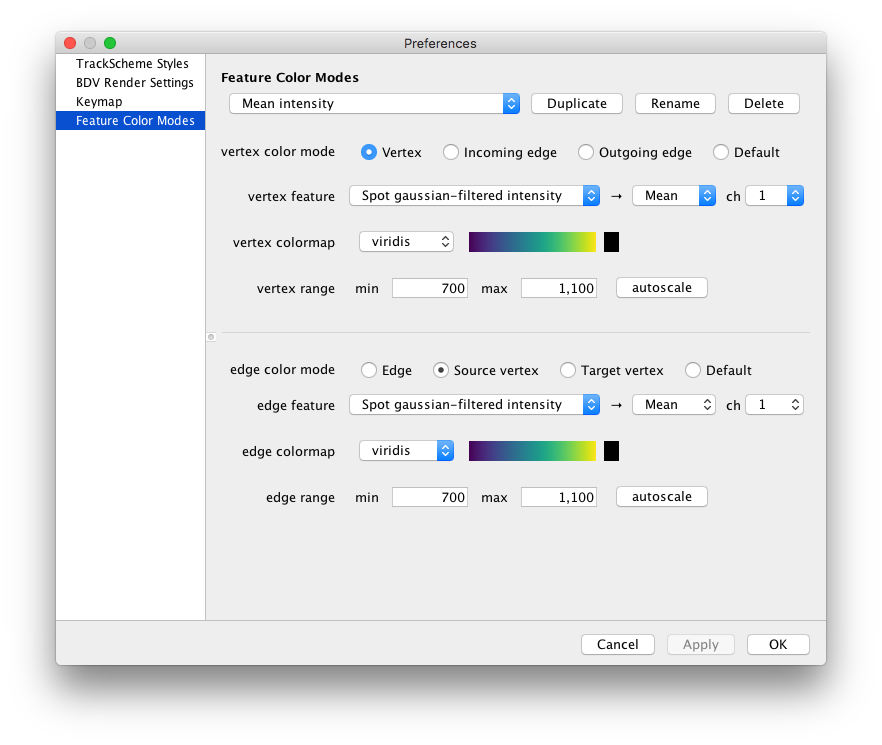
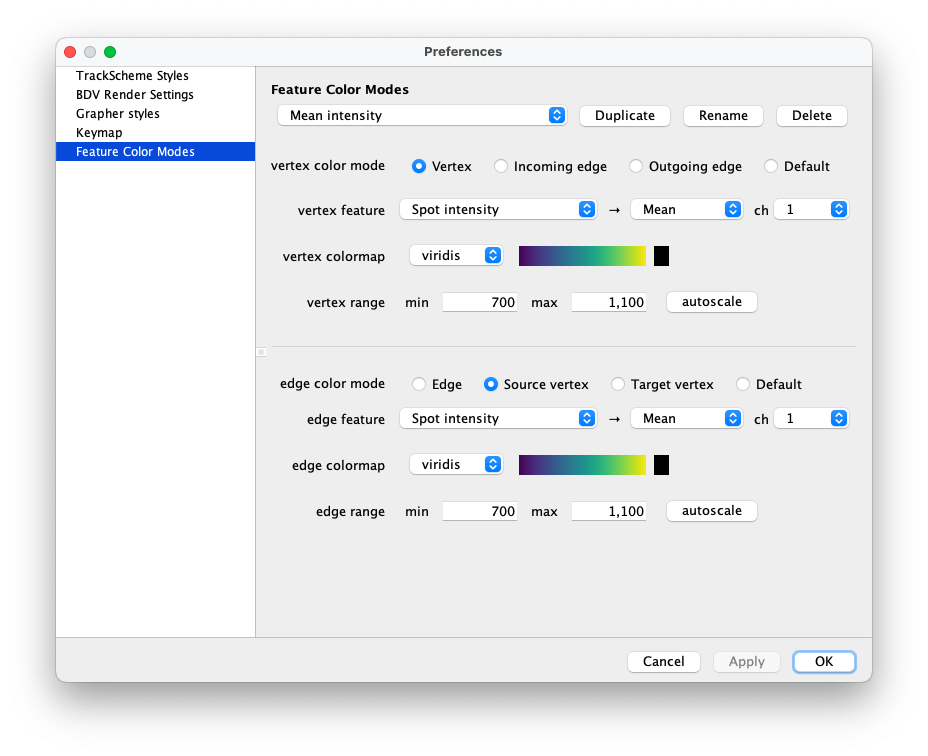
Tutorial on tags, features and the table views.
And the table shortcuts.

Changed region(s): [[0.0612, 0.0309, 0.949, 0.9262], [0.2143, 0.4322, 0.2449, 0.4631]]

diff --git a/docs/partA/numerical_features_tags_the_table_view.md b/docs/partA/numerical_features_tags_the_table_view.md
@@ -1,0 +1,355 @@
+# Numerical features and tags. The table view.
+
+Mastodon is a tracking and lineaging tool. 
+Its output is a collection of tracks, and the analysis of these tracks to yield statistics on velocity, displacement is carried out in another software package such as MATLAB or Python. 
+Nonetheless you will find in Mastodon tools to compute *numerical features* on data item. 
+Numerical features are numbers that can be calculated on spots, links and tracks of the data.
+For instance there are feature for the number of links that touch a spot, or the displacement of a link or the number of spots in a track.
+You can find them within Mastodon because it is convenient, but also because they are very useful for the interactive exploration of your data.
+Coupled with feature-based coloring, the display and sorting of values in the table view and the selection creator tool, they can considerably accelerate and facilitate making sense of the data.
+
+Numerical features are numbers that classically relate to a physical quantity.
+When we need to *categorize* items, we rely on *tags*. 
+We describe them just below.
+This chapter will also show you how to compute numerical features and create a coloring view from the feature values and tags.
+Doing so, we will introduce the third kind of data view in Mastodon: the data tables.
+
+## Tags and tag-sets.
+
+As we said above, every-time you need to categorize certain data items, or need to visualize categories, you should rely on tags. 
+Let's suppose that you are investigating the trajectories of cells in a developing embryo from an early stage to a stage where the embryo is polarized.
+Some cells will migrate to the anterior part, some others to the posterior part, _etc_. 
+You might want to tag cell tracks with the `Anterior` or `Posterior` tag, to investigate where do these cell come from in the early embryo. 
+Or let's say that you are curating the results of the automated tracking on a large images. 
+The tracking results might have some inaccuracies, and you want to correct them for important tracks.
+Because there is a lot of tracks, you share the workload with some colleagues.
+You work asynchronously with them, editing the Mastodon file one after another.
+Doing so, you can use tags in Mastodon to mark some tracks as reviewed by you. 
+Your colleagues will use a tag for themselves, to ensure that no two scientists are reviewing the same track twice.
+All the cells that are not tagged in this categorisation are still waiting to be reviewed.
+
+In Mastodon, a categorization corresponds to a **tag-set**. 
+A tag-set defines a property that can have a reasonable number of discrete values, or **tags**. 
+In the first of the two examples above, `Location` would be a tag-set to specify the location of cells. 
+`Anterior` and `Posterior` would be two tags belonging to the `Location` tag-set. 
+In the second example, `Reviewed by` would be a tag-set, and `Mette`, `Pavel`, `Tobias` and `Jean-Yves` would be 4 tags of this tag-set.
+
+You can assign tags to spots and links. 
+To assign a tag to a whole track, you have to assign this tag to all the spots and links of this track.
+One data item (a spot or a ling) can have 1 or 0 tags per existing tag-set. 
+But they can be categorized by as many tag-sets as there is.
+For instance, a spot can have the tag `Anterior` in the `Location` tag-set, and the tag `Pavel` in the `Reviewed by` tag-set. 
+Or it can be not tagged in the `Reviewed by` tag-set. 
+But it cannot have both the tag `Mette` and the tag `Tobias` because they belong to the same tag-set.
+Each tag-set works independently, and clearing a tag-set does not affect the others even for one data item. 
+Now that we set things straight, let's see how to create tag-sets. 
+We will base the demonstration in this chapter on the data we generated in the [first tutorial](getting_started.md).
+
+### Creating tag-sets.
+
+On the main Mastodon window, there is a `configure tags` button . 
+Pressing it opens the tag-set dialog.
+Right now, it appears as an empty table made of two columns.
+This is where you enter tag-sets and tags.
+
+<figure markdown>
+   ![](../imgs/Mastodon_ConfigureTagSet_1.png){width="45%"}
+   ![](../imgs/Mastodon_ConfigureTagSet_2.png){width="45%"}
+  <figcaption><i>Creating tag-sets and tags. 1. The empty tag-set dialog. 2. After adding two tag-sets and six tags. </i></figcaption>
+</figure> 
+<br/>
+
+Press the green `+` button on the left column to create a new tag-set. 
+A default name is shown for the tag-set, that you can edit. 
+You can also directly press the `Enter` key to immediately start editing the new tag-set. 
+Let's say we want to create the location tag we talked about before. 
+Type `Location` in the text field.
+An empty line followed by a green `+` button should appear on the right column.
+This is where you will enter the tags of this tag-set. 
+Click on this button, or press the `↹` key followed by the `Enter` key to create a new tag.
+For instance, the `Anterior` tag. 
+Note that a tag is only made of a label (the text) and a color.
+The color will be used in Mastodon views.
+Create a second tag for the same tag-set called `Posterior`. 
+Pick the color as you like.
+Now try to create another tag-set called `Reviewed by` and create some tags in this tag-set.
+The tag-set dialog is normally fully navigable with the cursor keys, so that you can enter tags quickly if you have a lot of them.
+You can create new tag-set or new tags with the `Enter` key, and delete them either with the `⌦` key or by pressing the red `-` button.
+
+When you are finished, press the `OK` button.
+
+### Assigning tags to data items. 
+
+Tags are set via the selection tool, presented in the [second tutorial](manual_editing.md#the-selection) . 
+Once you have some spots and links in the selection, you can assign a tag to it via the menu. 
+The menu content will be updated with the tag-sets and tags you defined in the tag-set dialog, described above.
+This will work in any Mastodon views, BDV or TrackScheme.
+
+![The menu item to assign tag-sets and tags to the current selection.](../imgs/Mastodon_ColorByTagSet_1.png)
+
+TrackScheme ships a second way to set tags quickly from the keyboard. 
+After selecting the spots and links of interest, press the key. 
+A floating menu should appear on the left part of the view panel.
+There is a bit of naming clash in the floating menu.
+Here, tag-sets are called *tags* and tags are called *labels*. 
+Select the desired tag-set with the `1`, `2`, .. keys. 
+The menu now shows the tags defined within this tag-set, that you can select the same way. 
+Note that there is a way to remove all the tags over all the tag-sets on the selection by pressing on the first menu, or just the tags of the selected tag-set by pressing on the second menu.
+
+<figure markdown>
+   ![](../imgs/Mastodon_ColorByTagSet_2.png)
+   ![](../imgs/Mastodon_ColorByTagSet_3.png)
+  <figcaption><i>Assigning tags in . After pressing the `Y` key this floating menu is shown, that can be navigated with the digit keys. </i></figcaption>
+</figure> 
+<br/>
+
+### Coloring views by tag-sets.
+
+The tags we just defined and assigned can be used in with the views, to highlight the items that are tagged. 
+In the _View > Coloring_ menu of any view in Mastodon, you will find a sub-menu updated with the tag-sets you created among other choices.
+By default, newly created views are colored with the coloring mode, which simply colors all the spots and links the same way, taking colors from display settings. 
+If you select a mode corresponding to a tag-set, tagged spots and links will appear painted with the color you chose for the tags of this tag-set . 
+This is very handy to mark some locations in the image or highlight interesting tracks in the data.
+Later we will see that tags can be used to retrieve specific items for further processing. 
+Finally, in there is an option to show a legend of the current coloring mode. 
+You can toggle it on or off and set the location of this legend in the _View > Colorbar_ menu.
+
+![The coloring menu, updated with the tag-sets.](../imgs/Mastodon_ColorByTagSet_4.png)
+![Coloring with tag-sets in TrackScheme.](../imgs/Mastodon_ColorByTagSet_5.png)
+
+## Numerical features.
+
+Numerical features are values that are calculated from the data. 
+For instance the mean intensity within a spot, or the displacement along a link.
+They are very generic: the main restrictions is that there must be a data item (a spot or a link) per feature value. 
+But the feature itself can be scalar, non-scalar, real, integer, a string, a vector, _etc_. 
+They are *labile*. 
+Because they are defined for a data item, they will become invalid as soon as the data item changes. 
+Think of what happens to the spot mean intensity if the spot is moved over the image for instance.
+Because we want to accommodate extensibility and large data, we have to use a special system that we describe below.
+
+### Feature computation.
+
+Some numerical feature values are calculated by **feature computers**.
+Feature computers are actually specialized Mastodon plugins, made so that it is easy for a 3rd party (you) to implement their own features in Mastodon.
+We explain you to write your own feature computer in the second part of this documentation, dedicated to technical information.
+
+Because feature computation can take very long on large images, you have to trigger it manually.
+On Mastodon main window, you can find a button `compute features`.
+Pressing it will show the feature computation dialog.
+The feature computers are listed on the left panel.
+Clicking on the computer name displays some information about the feature they compute in the right panel. 
+Note that they are named 'features' on this panel, but they are in reality the feature computers. 
+For instance if you click on the `Spot intensity`, you will see in the information panel that this computer generates a feature for the mean intensity, median intensity, _etc_.
+Note also that they can have dependencies. 
+For instance, the `Link velocity` feature computer depends on the `Link displacement` feature to be present at the time of computation.
+
+![The feature computation dialog.](../imgs/Mastodon_FeatureComputation_1.png)
+
+The check-box on the left of each feature computer name triggers whether they will be part of the next feature computation. 
+Press the `Compute` button to trigger computation of features.
+
+Once the computation of all the features is complete, all the small clock icons that were shown right to the feature computer names now turned to a green dot.
+This is how we keep track of the validity of the feature values.
+Since the feature computation is triggered manually, and that a feature value might invalidated if the data changes (new spots added, removed, moved, changed the radius, added or removed some links), this icon serves as a signal for feature value de-synchronization. 
+If the icon is shows as a clock , it means that the data changed since the last feature computation, and that the feature values are out of sync.
+If is shows a green dot, then the data did not change since last computation, and the feature values are sure to be valid. 
+This is very important for proper interpretation of the data, and you will have to show the computation dialog often just to check the feature values validity.
+By the way, you can check now how the validity flag works.
+While keeping the feature computation dialog open, move a spot in a BDV view.
+You should see that all the green dot icons now turn to the clock icon.
+Also, if you now deselect some feature computers before launching a new computation, the validity flag will not turn to the green dot icon for those feature computers.
+
+You probably have noticed, thanks to the progress bar, that the intensity-related features are the ones that take the most time to compute.
+Indeed, they require loading all of the data blocks on which there are spots.
+This could rapidly become cumbersome for large datasets, if you have to recompute all of the features every-time a spot is added or edited.
+Fortunately we implemented an update mechanism for feature computation.
+After the first computation, which possible takes very long, only the spots that have been added or modified since the last computation are considered for computation.
+
+Now that we have feature values computed, we would like to inspect them and export them for further analysis. 
+This is the role of the table view, but before getting to it, we will make a little detour to showing how to use features to generate coloring, accelerating updates of computation and saving them to disk.
+
+### Coloring views by numerical features.
+
+We have seen above that tag-sets could be used to generate coloring of the data items shown in a view.
+Indeed, in the _View > Coloring_ menu of each view, that tag-sets are listed and when selected, are used to assign a color to each data item.
+We can do something similar with feature values, except that feature based coloring requires more input from us.
+
+Feature color modes need to be created first, and this is done in a dedicated user interface. 
+Select the _File > Preferences_ menu item in the main window or any view.
+This shows the preferences dialog.
+It is organized with a side-bar on the left that contains the various items that can be configured in Mastodon.
+Parenthetically, you can see that you can configure the display style of the and BDV views, and the keymaps. 
+But we will see this later.
+In the sidebar select `Feature Color Modes`. 
+The panel on the right now display the feature color mode configuration panel:
+
+![The feature color mode configuration preference dialog.](../imgs/Mastodon_FeatureColorModeConfig_1.png)
+
+Its top line has a drop-down list that contains all the color modes already defined. 
+Right now, there is only one, called **Number of links**. 
+As the ***built-in*** suffix indicates, it is a built-in color modes, and it cannot be edited. 
+To create a new one you must duplicate it and rename the new one.
+Do so by clicking on the `Duplicate` button, then on `Rename`.
+Let's create a color mode that color spots and links based on the mean intensity inside the spots, that we would call **Mean intensity**.
+
+The rest of the configuration panel is made of two parts. 
+The top part configures the spot coloring, or how we color spots. 
+The bottom part configures the link coloring, or how we color links. 
+In Mastodon the data is organized in a [mathematical graph](https://en.wikipedia.org/wiki/Graph_(discrete_mathematics), in which the vertices are the spots, and the edges are the links that connect spots from one frame to another, so you will sometimes find in Mastodon and in this manual the vocables vertex and edge to design a spot and a link respectively.
+The vertex color mode specifies where do we take colors from. You can
+choose between:
+
+-   `Spot`, which means a spot will take its color from a feature
+    value it owns.
+-   `Incoming link`, which means a spot will take its color from a feature value owned by the single incoming link that targets this spot.
+This is the link backward in time. If there are no such links or more than one, then the default color is used.
+-   `Outgoing link` is the same thing, but for the link forward in time.
+-   `Default` mode does not rely on feature values but simply uses the default color in the view.
+
+Depending on the mode you chose, the content of the drop-down list below, called `Spot feature`, will change to reflect either the list of spot features or the link features. 
+Select **Spot** as a color mode and **Spot intensity** as feature. 
+Two new drop-down list appear on the right of the feature list.
+One contains the list of projections in the feature and the second one contains the list of channels in the dataset.
+
+We need to explain a bit what are **feature projections**. 
+We said above that a feature could be roughly anything numerical, and was not necessarily a scalar.
+It could be a vector, a tensor, a complex number, _etc_.
+However to be usable and useful in Mastodon, features are required to expose a sensible list of projections that compose them. 
+Feature projections are scalar and real values that can decompose or project a feature on a real axis.
+How they are defined is up to the person that created the feature computer, but we can rely on the *hope* that they choose wisely. 
+For instance, a feature that gives the velocity vector of a link will reasonably expose 3 projections, one for each of the X, Y and Z component of the vector. 
+Or maybe the polar angle, azimuthal angle and norm of this vector. 
+Or maybe the 6 projections since they can be calculated on the fly.
+A complex feature value will reasonably expose 2 projections, one for the real part, one of the imaginary part. 
+*Etc*.
+The `Spot intensity` feature has six projections: mean, max, min, median, sum and standard deviation of the intensity inside a spot.
+Since all can be computed on any of the channel present in the dataset, their number is multiplied by the number of channels.
+The configuration panel changes according to the number of projections in a feature and its multiplicity.
+For features that are made of one real value with no multiplicity, the projection list is superfluous and not shown.
+In our case, we simply want the mean of the only channel in the dataset.
+
+![Our custom feature color mode, based on spot intensity.](../imgs/Mastodon_FeatureColorModeConfig_2.png)
+
+Coming back to the color mode configuration, next we need to pick a color-map. 
+A color-map acts as the LUT for an image, and maps a color to a certain value.
+Mastodon ships about 20 of them, many taken from the [MatPlotLib project]( https://matplotlib.org/3.1.1/gallery/color/colormap_reference.html). 
+Finally, you have to specify a min value and a max value that will act as the brightness and contrast values for an image.
+Values below the min you defined will all be displayed with the first color of the color-map and values larger than the max with last.
+The black square you see next to the graded representation of the color-map is the color used for data items for which the feature value is not present or undefined (division by zero, _etc_).
+The `autoscale` button computes the min and max automatically from the feature currently selected with the values taken from the last feature computation.
+
+The link coloring works exactly the same, except for the link color
+mode.
+
+-   `Link` means that a link will be colored by a feature value it owns.
+-   `Source spot` will take a feature value from the source spot of this link, that is, the first in time.
+-   `Target spot` does the same but for the last spot in time of this link.
+-   `Default` mode does not rely on feature values but simply uses the default color in the view.
+
+To build our example feature color mode, choose `Source spot` as color mode, and use for instance the `viridis` color-map along with 700 and 1100 for min and max values. 
+Do the same for the spot color mode..
+
+Like for tag-sets, the menu is now updated with items corresponding to the color modes we created.
+If they are grayed-out, it means that the feature values they depend on is not yet computed. This kind of view immediately reveals important aspect of the data, even at a very high level. 
+For instance with our custom color mode, we can quickly find cells that are the brightest, and visually inspect how the intensity in cells change over time.
+
+![Feature color mode in a BDV view and in a view.](../imgs/Mastodon_FeatureColorBDV.png "fig:")
+![Feature color mode in a BDV view and in a view.](../imgs/Mastodon_FeatureColorTrackScheme.png)
+
+## The data table views. 
+
+### The main table view.
+
+The BDV and views are not suitable to display all the feature values we computed.
+The coloring we have been using with them is good only for visualization purpose. 
+There is a nice view to properly inspect and exploit feature values in subsequent steps in your analysis: the table view.
+In practice, the table view is simply a tabular representation of the data items in Mastodon. 
+Spots and links are displayed in a list where a single row corresponds to a data item, and columns to feature values and tags.
+You can create a new table view by using the menu . 
+If you did not compute features and did not define and tag-set, it should look like the table below:
+
+<figure markdown>
+   ![](../imgs/Mastodon_TableView1.png){width="45%"}
+   ![](../imgs/Mastodon_TableView2.png){width="45%"}
+  <figcaption><i>The table view, with no features computed and no tags defined. Left: the table for spots. Right: the table for links. </i></figcaption>
+</figure> 
+<br/>
+
+The view is made of several tables, the first one for spots and the second one for links. 
+We will discuss the others later.
+Right now it is pretty empty.
+The spot and link tables only show the label and ID of the spots and a few feature values that are built-in. 
+But they do not show the spot intensity features we configured above.
+Navigating in this table is done classically: the arrow keys `↑` and `↓` jump from one row to the next, and `←` and `→` from one column to the next.
+`⇞` and `⇟` jump page per page. `Control ⇞` and `Control ⇟` moves across tables..
+
+After computing some features and defining some tag-sets, the table shows new columns 
+Note that the column headers represent the feature with their projection and physical units on several rows.
+For instance, the `Spot intensity` feature name is displayed on the first row of the column header. 
+The header is split in two columns on the second row, one for each projection included in the feature.
+And in the third and last row, the units of each projection is display in brackets (`Counts` in this case). 
+The header of the tag-set columns are similar. 
+The first row shows the name of the tag-set, and the second row shows each of the tag the set contains, with the tag chosen color as background.
+
+![The table view, with features and tags.](../imgs/Mastodon_TableView3.png)
+
+The table view can be used to edit in part the data.
+For instance you can edit the spot label directly in the table.
+Just navigate to the row of spot you want to change the name of and the `Label` column, then press `F2`.
+The label field becomes editable. 
+When you are done editing, press `Enter`.
+The tags are displayed as check-boxes in the table, that you can set directly by clicking on them.
+Or you can navigate the desired row and column and set them with the `space` key.
+
+![After editing spot labels and tags.](../imgs/Mastodon_TableView4.png)
+
+The highlight and selection are also shared with table views. 
+When the table view is not active, selected items are shown with a gray background.
+The highlight spot or link is shown in the table with a thick black border.
+To add rows to the selection, the default key-bindings are again standard. 
+Press `Shift Left-click` to add a range of rows to the selection from a table view, or use `Shift ↑` or `Shift ↓`  or `Shift ⇞` and `Shift ⇟`. 
+By pressing `Control Left-click` or `Command Left-click` you can toggle single rows in and out of the selection. 
+Of course, all of the commands related to the selection we have seen before also apply to the table views.
+The shortcuts to navigate in the table views are summarized in the [table of table shortcuts](table_table_navigation_keys.md).
+
+Another feature of data tables is that they can be made slave of a spatial context, like for TrackScheme.
+When another BDV view is active, you can select its name in the drop-down list on the top-right part of the table.
+Then the table only shows the data items that are currently displayed in the master BDV view. 
+The notion of spatial context is explained in the [previous tutorial](inspecting_large_datasets.md#spatial-context-in-trackscheme).
+
+![Highlight and selection in the table view.](../imgs/Mastodon_TableView5.png){width="45%"}
+![Highlight and selection in the table view.](../imgs/Mastodon_TableView6.png){width="45%"}
+
+### Sorting rows.
+
+The table can be sorted by clicking on the header of the column you want to use for sorting. 
+It works for labels, IDs, feature values and tags
+
+### The selection table.
+
+There exists a variation of the table view, but that display only what is currently in the selection.
+To display such a table, go to `Window > New selection table` in the menu. 
+The selection table that appears only shows what is in the selection, and is constantly updated to reflect changes in the selection. 
+You cannot use it to edit the selection like in the main table.
+However the row you pick in this table will set the focus and highlight in other views. 
+Everything else applies to the selection table.
+
+![The selection table.](../imgs/Mastodon_TableView7.png){width="45%"}
+![The selection table.](../imgs/Mastodon_TableView8.png){width="50%"}
+
+### Feature-based coloring in table views.
+
+Of course, feature based coloring works with the table views.
+And it can give a pleasant display when combined with sorting rows by a feature column.
+
+![Feature-based coloring in table views.](../imgs/Mastodon_TableView9.png)
+
+### Exporting table data.
+
+The data currently displayed in a table view can be exported to CSV.
+When a table window is active, select the menu item `File > Export to CSV`.
+You will have to specify a saving location and a name. 
+Only the data displayed in the currently visible table are saved, and ordered as in the view. 
+This means that if you call the command from a selection table, only the current selection will be saved.
+

diff --git a/docs/partA/table_table_navigation_keys.md b/docs/partA/table_table_navigation_keys.md
@@ -1,0 +1,13 @@
+| **Action**                                                   | **Key**         |
+| ------------------------------------------------------------ | --------------- |
+| **_Navigation._**                           |                |
+| Move from row to row.     | `↓` and `↑`     |
+| Move column to column     | `←` and `→`     |
+| Jump to next / previous table. | `Control ⇟` / `Control ⇞`   |
+| **_Editing._**                           |                   |
+| Edit spot label       | `F2` when the focus is in the spot label column. |
+| Toggle tag            | `space` when the focus is in the desired tag column |
+| **_Selecting._**                           |                   |
+| Add next / previous row to selection |  `Shift ↓` / `Shift ↑` |
+| Add range to selection |  `Shift ⇞` and `Shift ⇟` | 
+| Toggle row into selection | `Control Left-click` or `Command Left-click` | 
